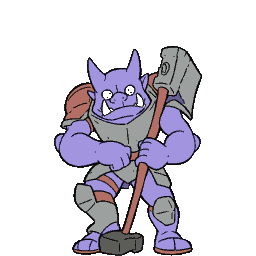
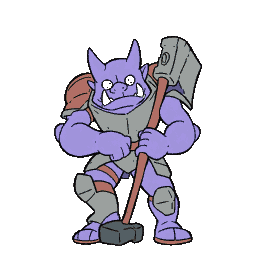
v0.39.1: 흰색이 알파로 빠지고 발이 잘렸다 — 사람이 잡아준 결함 2건
사람 보고: "흰색이 전부 알파로 빠지는데 그리고 아래가 짤려 있음". 둘 다 내 실수였다.

1. cutout --enclosed 를 켠 게 원인. 그 플래그는 "피사체가 둘러싼 배경"을 지우는데
   흰 배경(#fcfcfc) 위의 흰 갑옷·흰 뼈가 같은 조건에 걸린다. 기사 갑옷과 해골 뼈가
   통째로 투명이 됐다. **도구 도움말에 "흰 옷이 있으면 켜지 마라"라고 적혀 있는데 내가 어겼다.**
   해법은 임계값이 아니라 플래그를 빼는 것 - 굵은 외곽선이 있으면 테두리 flood fill 이
   외곽선에서 멈추므로 안쪽 흰색은 저절로 보존된다.
   이 플래그는 프로젝트가 아니라 **캐릭터 단위**로 정한다. 흰 부분이 없는 오거만 켜서
   다리 사이 틈을 없앴다.

   마젠타 배경 생성도 시도했으나 모델이 균일한 단색을 못 그린다(그라데이션 + 이미지마다
   다른 색). --chroma 는 배경을 진짜로 통제할 수 있을 때만 쓴다.

2. 정규화가 발을 캔버스 바닥에 딱 붙여 잘려 보였다. FLOOR=10px 여백을 넣고
   cast-manifest.json 에 anchorPx 를 남긴다.

겸사: 해골 발밑 붉은 타원은 --deshadow 로 안 떼진다(배경색이 아니라 그려진 색이고 망토와
같은 색이라 색으로 떼면 망토가 뚫린다). 그림자 없는 시드로 교체했다(3102 -> 3103).

provenance 가 값을 했다. 중간 파일을 지운 뒤 run-log.json 의 프롬프트·시드·워크플로 해시만으로
**치수까지 똑같이 재현**됐다(826x1169 등). 오늘 아침에 넣은 기능이 오늘 오후에 쓰였다.

최종: 캐스트 공용 24색 · 반투명 0% · 실루엣 100%(dE 4.8~6.4) · 도트 계약 충족 ·
네 캐릭터가 같은 접지선 위에 선다.

Claude-Session: https://claude.ai/code/session_01GuCz1iBLaoKG9rQy6H8BBq

Changed region(s): [[0.1875, 0.125, 0.8125, 1.0]]

diff --git a/samples/cast-v2/README.md b/samples/cast-v2/README.md
@@ -12,14 +12,14 @@
 | lunger (스켈레톤) | 1.05 | 11 |
 | boss (오거) | 1.40 | 11 |
 
-**캐스트 공용 팔레트 24색 · 반투명 0% · 실루엣 100% 보존(dE 3.2~5.3) · 도트 계약 충족.**
-캔버스 256x256, 발을 바닥에 붙인 하단 앵커, 가로 중앙.
+**캐스트 공용 팔레트 24색 · 반투명 0% · 실루엣 100% 보존(dE 4.8~6.4) · 도트 계약 충족.**
+캔버스 256x256 · 하단 앵커 `[128, 246]` · 바닥 여백 10px · 가로 중앙. (`cast-manifest.json`)
 
 ## 경로
 
 ```
 Animagine XL 4.0 (태그 프롬프트, hires 없음)
-  -> cutout --binary-alpha --feather 0 --trim --enclosed --deshadow
+  -> cutout --binary-alpha --feather 0 --trim   (--enclosed 는 boss 만)
   -> 상대 크기 정규화 (설계값, 아래 note)
   -> palette-force --colors 24 --apply   (캐스트 공용 팔레트)
   -> pixel-contract --cast               (합집합으로 판정)
@@ -28,6 +28,36 @@ Animagine XL 4.0 (태그 프롬프트, hires 없음)
 
 `run-log-*.json` 에 프롬프트 본문·모델·워크플로 해시·시드·출력 sha256 이 들어 있다.
 이것만으로 재현된다.
+
+## 2026-10-02 수정 — 사람이 잡아준 결함 2건
+
+첫 판에 **흰색이 전부 알파로 빠지고 발이 잘렸다.** 둘 다 내 실수였다.
+
+### ① 흰 갑옷·흰 뼈가 통째로 사라졌다
+`cutout --enclosed` 를 켠 게 원인이다. 그 플래그는 **"피사체가 둘러싼 배경"** 을 지우는데,
+흰 배경(`#fcfcfc`) 위의 **흰 갑옷·흰 뼈가 바로 그 조건에 걸린다.**
+도구 도움말에 *"흰 옷이 있으면 켜지 마라"* 라고 적혀 있는데 내가 그걸 어겼다.
+
+**해법은 임계값 조정이 아니다.** 캐릭터에 굵은 검은 외곽선이 있으므로, 테두리에서 들어오는
+flood fill 은 외곽선에서 멈춘다 — `--enclosed` 만 빼면 안쪽 흰색은 저절로 보존된다.
+
+**이 플래그는 프로젝트 단위가 아니라 캐릭터 단위로 정한다.** 오거는 흰 부분이 없고
+(보라 피부 + 회색 갑옷, 배경과 거리 76 > tol 26) 다리 사이 틈만 남아서 **오거만** 켰다.
+
+마젠타 배경 생성도 시도했지만 모델이 균일한 단색을 못 그린다(그라데이션 + 이미지마다 다른 색).
+크로마키는 배경을 **진짜로 통제할 수 있을 때만** 쓴다.
+
+### ② 발이 캔버스 바닥에 붙어 잘려 보였다
+정규화에서 `oy = CANVAS - targetH` 로 딱 붙였다. 피벗이 바닥이어도 **스프라이트 자체에는
+여백이 있어야 한다.** `FLOOR = 10px` 을 넣고 `cast-manifest.json` 에 `anchorPx` 를 남긴다.
+
+### 겸사겸사
+해골 발밑 붉은 타원(그려진 그림자)은 `--deshadow` 로 안 떼진다 — 배경색이 아니라 **그려진 것**이고
+붉은 망토와 같은 색이라 색으로 떼면 망토가 뚫린다. **그림자 없는 다른 시드로 바꿨다**(3102 -> 3103).
+
+### provenance 가 실제로 값을 했다
+중간 파일을 지운 뒤 원본이 필요해졌는데, `run-log.json` 의 프롬프트·시드·워크플로 해시만으로
+**치수까지 똑같이 재현**됐다(826x1169 등). 손으로 적어둔 게 없어도 됐다.
 
 ## 이번에 배운 것
 

diff --git a/plugins/game-dev-team/skills/char-art-system/SKILL.md b/plugins/game-dev-team/skills/char-art-system/SKILL.md
@@ -335,6 +335,18 @@ ComfyUI 버전 · GPU 가 들어간다. 손으로 manifest 에 옮겨 적을 것
 `--dry-run` 은 제출 없이 그 기록만 쓴다 — GPU 가 없거나 VRAM 이 모자라도 **무엇을 보낼
 참이었는지**는 남는다.
 
+**`--enclosed` 는 프로젝트가 아니라 캐릭터 단위로 정한다.**
+그 플래그는 "피사체가 둘러싼 배경"을 지우는데, **흰 배경 위의 흰 갑옷·흰 뼈가 같은 조건에 걸린다.**
+실측(2026-10-02): 켜고 돌렸더니 기사 갑옷과 해골 뼈가 **통째로 투명**이 됐다.
+캐릭터에 굵은 외곽선이 있으면 테두리 flood fill 이 외곽선에서 멈추므로 **그냥 빼면 안쪽 흰색이 보존된다.**
+흰 부분이 전혀 없는 캐릭터(예: 보라 피부 + 회색 갑옷)만 켜서 다리 사이 틈을 없앤다.
+
+**마젠타 배경으로 피하려 하지 마라** — 생성 모델이 균일한 단색을 못 그린다(그라데이션에 이미지마다 색이 다름).
+`--chroma` 는 배경을 **진짜로 통제할 수 있을 때만** 쓴다.
+
+**그려진 접지 그림자는 `--deshadow` 로 안 떼진다.** 배경색이 아니라 그려진 색이고, 망토 같은 소품과
+색이 겹치면 색으로 떼다가 소품이 뚫린다. **그림자 없는 다른 시드로 바꾸는 게 싸다.**
+
 **`--binary-alpha` 를 빼지 마라.** `--feather 0` 만으로는 톨러런스 경계에 반투명이 1.1% 남아
 도트 계약(0.5%)을 어긴다.
 

diff --git a/skills/char-art-system/SKILL.md b/skills/char-art-system/SKILL.md
@@ -335,6 +335,18 @@ ComfyUI 버전 · GPU 가 들어간다. 손으로 manifest 에 옮겨 적을 것
 `--dry-run` 은 제출 없이 그 기록만 쓴다 — GPU 가 없거나 VRAM 이 모자라도 **무엇을 보낼
 참이었는지**는 남는다.
 
+**`--enclosed` 는 프로젝트가 아니라 캐릭터 단위로 정한다.**
+그 플래그는 "피사체가 둘러싼 배경"을 지우는데, **흰 배경 위의 흰 갑옷·흰 뼈가 같은 조건에 걸린다.**
+실측(2026-10-02): 켜고 돌렸더니 기사 갑옷과 해골 뼈가 **통째로 투명**이 됐다.
+캐릭터에 굵은 외곽선이 있으면 테두리 flood fill 이 외곽선에서 멈추므로 **그냥 빼면 안쪽 흰색이 보존된다.**
+흰 부분이 전혀 없는 캐릭터(예: 보라 피부 + 회색 갑옷)만 켜서 다리 사이 틈을 없앤다.
+
+**마젠타 배경으로 피하려 하지 마라** — 생성 모델이 균일한 단색을 못 그린다(그라데이션에 이미지마다 색이 다름).
+`--chroma` 는 배경을 **진짜로 통제할 수 있을 때만** 쓴다.
+
+**그려진 접지 그림자는 `--deshadow` 로 안 떼진다.** 배경색이 아니라 그려진 색이고, 망토 같은 소품과
+색이 겹치면 색으로 떼다가 소품이 뚫린다. **그림자 없는 다른 시드로 바꾸는 게 싸다.**
+
 **`--binary-alpha` 를 빼지 마라.** `--feather 0` 만으로는 톨러런스 경계에 반투명이 1.1% 남아
 도트 계약(0.5%)을 어긴다.
 
